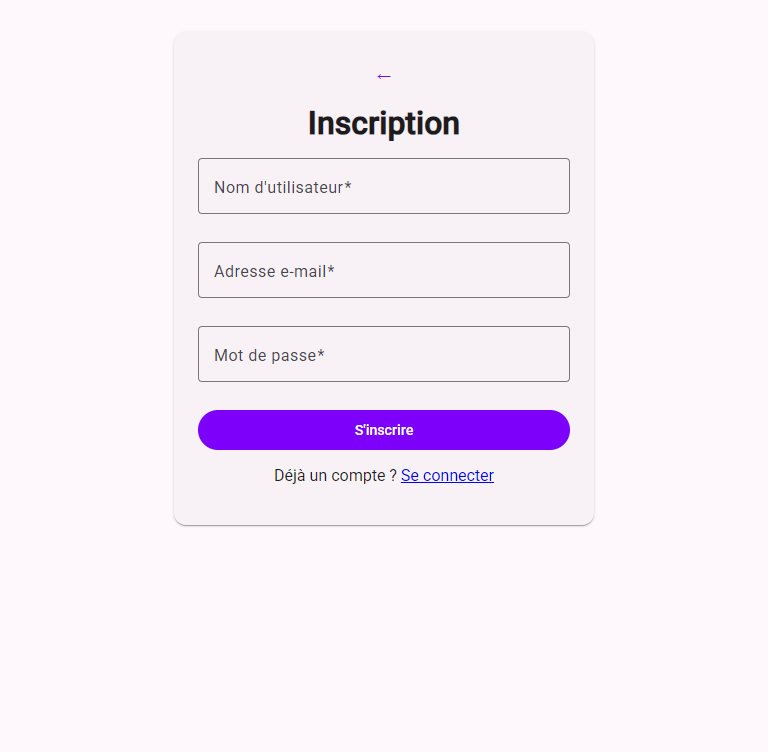
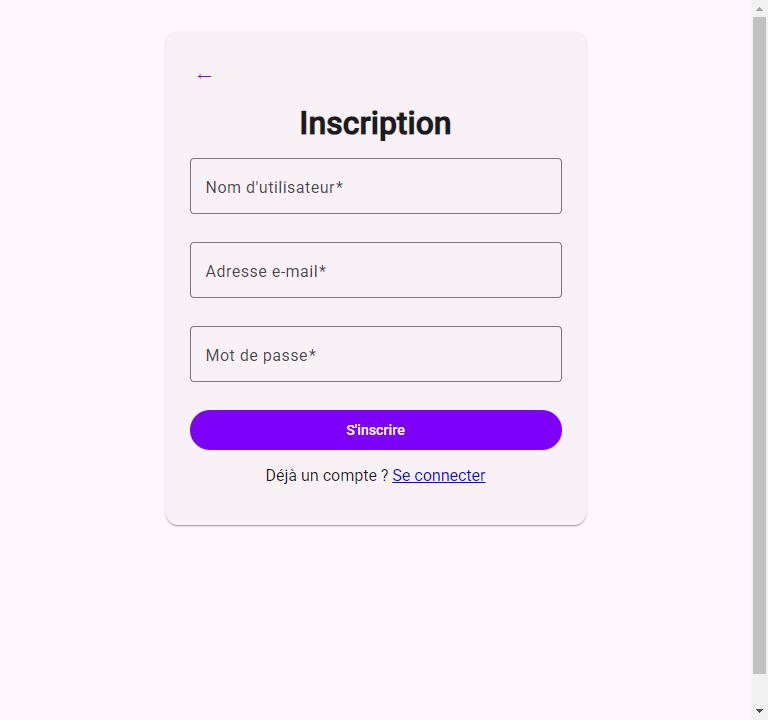
fix : capture viewport au lieu de fullPage pour les annexes
Le header est en position fixed et les cartes portent des transitions : le
fullPage de Cypress, qui défile et recolle des tranches, dupliquait les
éléments fixes et désynchronisait les animations (header cloné, cartes
fantômes). Capture en mode viewport, hauteurs relevées pour que chaque écran
tienne sans défilement. Corrige au passage le décalage horizontal des cartes.

diff --git a/front/cypress/ui-capture/ui.cy.ts b/front/cypress/ui-capture/ui.cy.ts
@@ -4,6 +4,12 @@
  * Ce fichier ne contient AUCUNE assertion : ce ne sont pas des tests. Il parcourt les neuf
  * écrans de la maquette sous trois largeurs et produit une image par combinaison.
  *
+ * Capture en mode `viewport` (et non `fullPage`) : le header est en `position: fixed` et les
+ * cartes portent des transitions. Le `fullPage` de Cypress défile la page par tranches et
+ * recolle les morceaux, ce qui duplique tout élément fixe et désynchronise les animations
+ * (header cloné, cartes fantômes). Le viewport est donc dimensionné assez haut pour que chaque
+ * écran tienne d'un seul tenant, sans défilement.
+ *
  * Reproductible : les données proviennent de fixtures, jamais d'une base. Une modification
  * de l'interface se répercute sur les annexes par une simple relance de `npm run capture:ui`.
  */
@@ -17,13 +23,14 @@ interface Viewport {
 
 /**
  * Les trois cibles nommées par la maquette (« ordinateur, tablette et téléphone »).
- * 768px déclenche le mode compact (@media max-width: 768px) : la tablette illustre donc
- * le header en burger et les grilles à une colonne, comme prévu par le modèle responsive.
+ * Les hauteurs sont volontairement généreuses : en capture `viewport`, tout ce qui dépasse
+ * la hauteur est coupé, donc on dimensionne pour que l'écran le plus long (le fil à quatre
+ * articles) tienne en entier. 768px déclenche le mode compact (header en burger, une colonne).
  */
 const VIEWPORTS: readonly Viewport[] = [
-  { label: 'desktop', width: 1280, height: 800 },
-  { label: 'tablette', width: 768, height: 1024 },
-  { label: 'mobile', width: 390, height: 844 },
+  { label: 'desktop', width: 1280, height: 1000 },
+  { label: 'tablette', width: 768, height: 1400 },
+  { label: 'mobile', width: 390, height: 1400 },
 ];
 
 /** Stubbe l'ensemble des appels API avec les fixtures de capture. */
@@ -35,11 +42,12 @@ function stubApi(): void {
 }
 
 /**
- * Capture la page entière (et non le seul viewport) : une page longue tient sur une image.
+ * Capture le viewport (et non la page entière) : pas de défilement, donc pas de duplication
+ * des éléments fixes ni de désynchronisation des animations.
  * `overwrite` évite les suffixes numériques en cas de relance sans nettoyage préalable.
  */
 function shoot(name: string, viewport: Viewport): void {
-  cy.screenshot(`${name}-${viewport.label}`, { capture: 'fullPage', overwrite: true });
+  cy.screenshot(`${name}-${viewport.label}`, { capture: 'viewport', overwrite: true });
 }
 
 VIEWPORTS.forEach((viewport) => {
